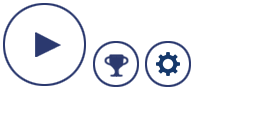
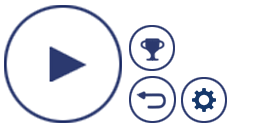
Tillbaka och score knapp

Changed region(s): [[0.0, 0.0, 0.9062, 0.9688], [0.5312, 0.1875, 0.6562, 0.25]]

diff --git a/test_ui/core/src/com/mygdx/game/screens/MainMenyScreen.java b/test_ui/core/src/com/mygdx/game/screens/MainMenyScreen.java
@@ -29,7 +29,7 @@ public class MainMenyScreen implements Screen {
     private Skin skin;
     private Rectangle viewport;
     // Buttons
-    private TextButton button,buttonPlay, buttonSetting, buttonExit;
+    private TextButton button,buttonPlay, buttonSetting, buttonScore;
     TextButton.TextButtonStyle textButtonStyle;
     TextureAtlas buttonAtlas;
     // Texture
@@ -55,7 +55,7 @@ public class MainMenyScreen implements Screen {
         this.skin.addRegions(app.assets.get("ui/menuskin.pack", TextureAtlas.class));
         this.skin.add("default-font", app.font50); // Sätter defaulf font som vår ttf font
         this.skin.load(Gdx.files.internal("ui/menuskin.json"));
-        
+
         background = app.assets.get("img/background1.jpg", Texture.class);
         initButtons();
     }
@@ -138,9 +138,9 @@ public class MainMenyScreen implements Screen {
         int size_y = 60;
         int space = 70;
 
-        buttonPlay = new TextButton("Play",skin, "default");
-        buttonPlay.setPosition(Gdx.graphics.getWidth()/ 2 - size_x/2, Gdx.graphics.getHeight()/2 - size_y/2);
-        buttonPlay.setSize(size_x, size_y);
+        buttonPlay = new TextButton("",skin, "default");
+        buttonPlay.setPosition(Gdx.graphics.getWidth() / 2, Gdx.graphics.getHeight() / 2);
+        //buttonPlay.setSize(size_x, size_y);
         buttonPlay.addAction(sequence(alpha(0), parallel(fadeIn(.5f), moveBy(0, -20, .5f, Interpolation.pow5Out))));
         buttonPlay.addListener(new ClickListener() {
             @Override
@@ -149,9 +149,9 @@ public class MainMenyScreen implements Screen {
             }
         });
 
-        buttonSetting = new TextButton("Settings", skin, "default");
-        buttonSetting.setPosition(Gdx.graphics.getWidth()/ 2 - size_x/2, Gdx.graphics.getHeight()/2 - size_y/2 - space);
-        buttonSetting.setSize(size_x, size_y);
+        buttonSetting = new TextButton("", skin, "default2");
+        buttonSetting.setPosition(Gdx.graphics.getWidth() / 2, Gdx.graphics.getHeight() / 2 - space);
+        //buttonSetting.setSize(size_x, size_y);
         buttonSetting.addAction(sequence(alpha(0), parallel(fadeIn(.5f), moveBy(0, -20, .5f, Interpolation.pow5Out))));
         buttonSetting.addListener(new ClickListener() {
             @Override
@@ -160,18 +160,18 @@ public class MainMenyScreen implements Screen {
             }
         });
 
-        buttonExit = new TextButton("Exit", skin, "default");
-        buttonExit.setPosition(Gdx.graphics.getWidth()/ 2 - size_x/2, Gdx.graphics.getHeight()/2 - size_y/2 - space*2);
-        buttonExit.setSize(size_x, size_y);
-        buttonExit.addAction(sequence(alpha(0), parallel(fadeIn(.5f), moveBy(0, -20, .5f, Interpolation.pow5Out))));
-        buttonExit.addListener(new ClickListener() {
+        buttonScore = new TextButton("", skin, "default3");
+        buttonScore.setPosition(Gdx.graphics.getWidth() / 2, Gdx.graphics.getHeight() / 2 - space * 2);
+        //buttonScore.setSize(size_x, size_y);
+        buttonScore.addAction(sequence(alpha(0), parallel(fadeIn(.5f), moveBy(0, -20, .5f, Interpolation.pow5Out))));
+        buttonScore.addListener(new ClickListener() {
             @Override
             public void clicked(InputEvent event, float x, float y) {
-                Gdx.app.exit();
+                System.out.println("Score kommer!");
             }
         });
         stage.addActor(buttonPlay);
         stage.addActor(buttonSetting);
-        stage.addActor(buttonExit);
+        stage.addActor(buttonScore);
     }
 }

diff --git a/test_ui/core/src/com/mygdx/game/screens/LobbyScreen.java b/test_ui/core/src/com/mygdx/game/screens/LobbyScreen.java
@@ -49,10 +49,15 @@ public class LobbyScreen implements Screen {
         System.out.println("Show");
         Gdx.input.setInputProcessor(stage); // hanterar olika input events
 
+        /*this.skin = new Skin();
+        //this.skin.load(Gdx.files.internal("ui/uiskin.json"));
+        this.skin.addRegions(app.assets.get("ui/uiskin.atlas", TextureAtlas.class));
+        this.skin.add("default-font", app.font50); // Sätter defaulf font som vår ttf font*/
+
         this.skin = new Skin();
-        this.skin.addRegions(app.assets.get("ui/uiskin.atlas" , TextureAtlas.class));
+        this.skin.addRegions(app.assets.get("ui/menuskin.pack", TextureAtlas.class));
         this.skin.add("default-font", app.font50); // Sätter defaulf font som vår ttf font
-        this.skin.load(Gdx.files.internal("ui/uiskin.json"));
+        this.skin.load(Gdx.files.internal("ui/menuskin.json"));
 
         background = app.assets.get("img/background1.jpg", Texture.class);
 
@@ -133,9 +138,9 @@ public class LobbyScreen implements Screen {
         int size_x = 280;
         int size_y = 60;
 
-        buttonBack = new TextButton("Back", skin, "default");
-        buttonBack.setSize(size_x, size_y);
-        buttonBack.setPosition(Gdx.graphics.getWidth() / 2 - size_x / 2, Gdx.graphics.getHeight() / 2 - size_y / 2);
+        buttonBack = new TextButton("", skin, "default4");
+        //buttonBack.setSize(size_x, size_y);
+        buttonBack.setPosition(Gdx.graphics.getWidth() / 2, Gdx.graphics.getHeight() / 2);
         buttonBack.addAction(sequence(alpha(0), parallel(fadeIn(.5f), moveBy(0, -20, .5f, Interpolation.pow5Out))));
         buttonBack.addListener(new ClickListener() {
             @Override
